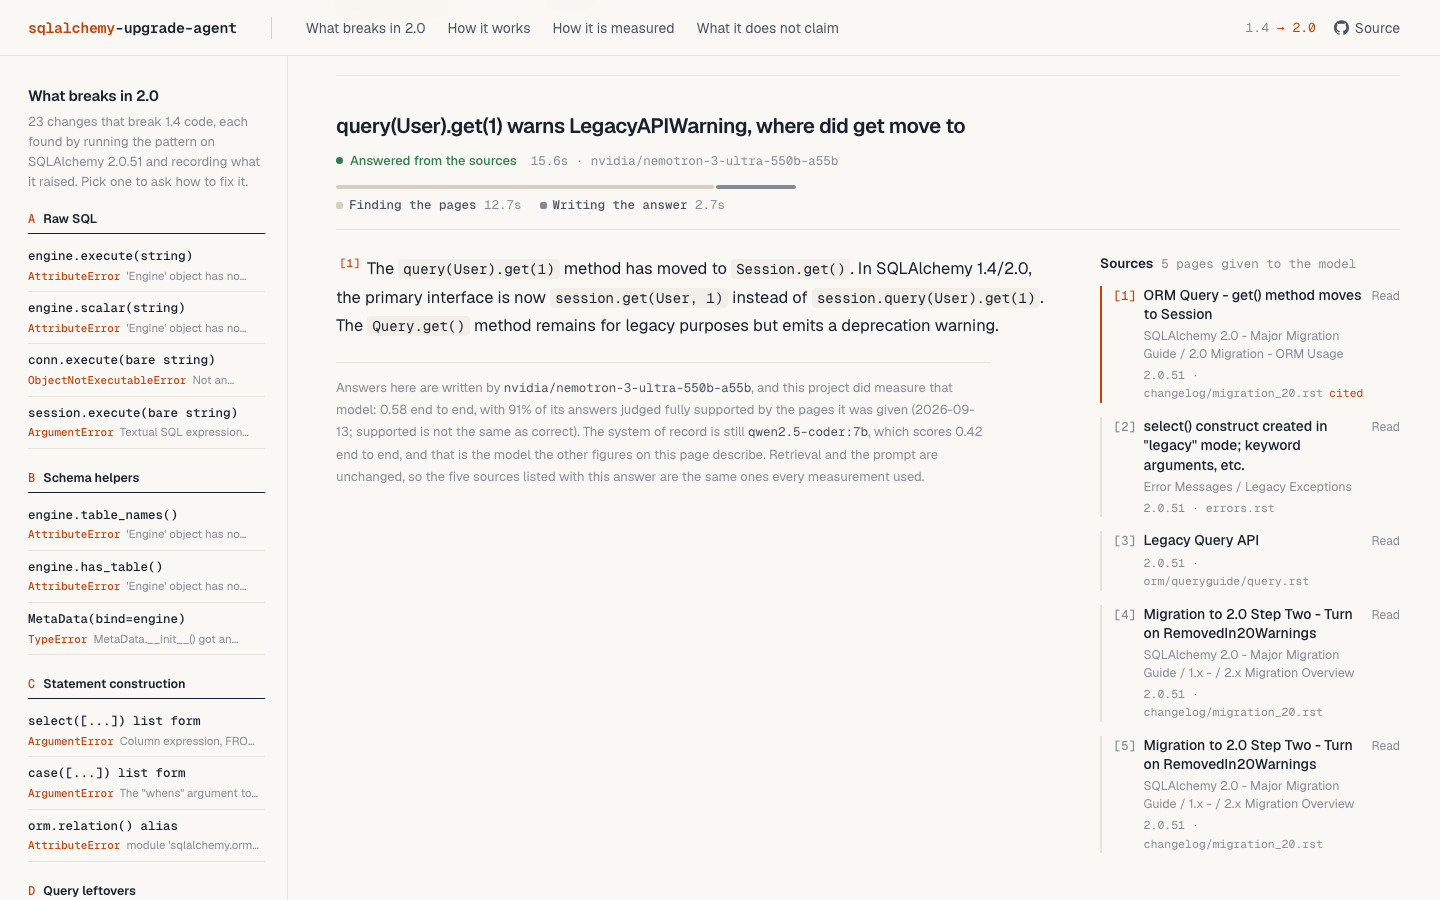
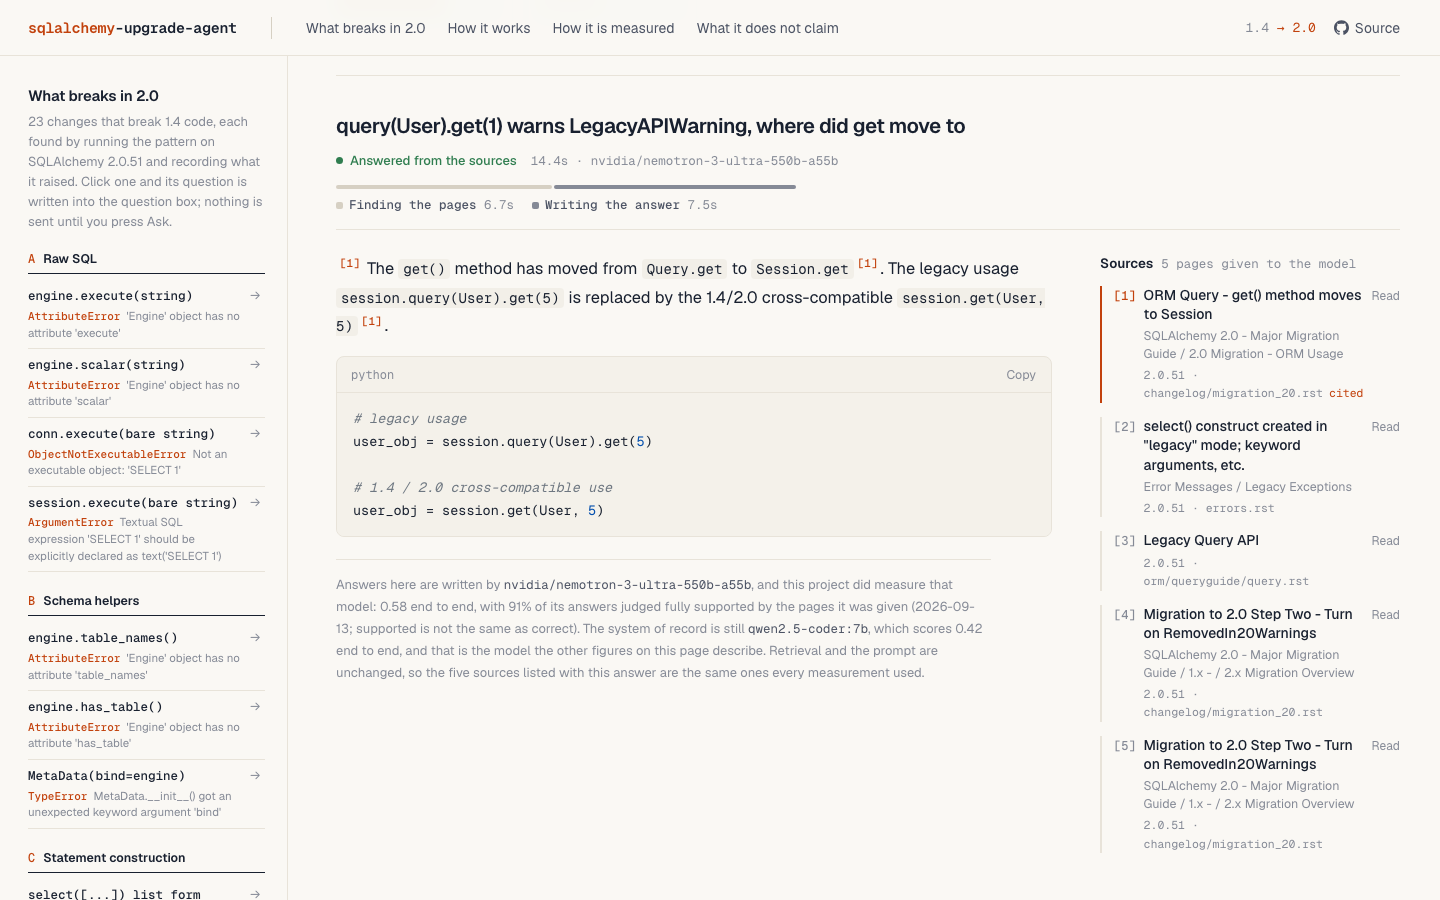
test(page): the live check waits out the 20-second gap; retake the README screenshots
The server takes one question per visitor every 20 seconds. Answers now come
back in about 11 seconds, so the live check's second question was refused as
"Too many questions" and the script read that as an answer with no citations.
It now waits the gap out before each further question, and "Enter produced an
answer" requires an answered or declined reply rather than anything that is
not the working state.

Screenshots retaken from the deployed page: sidebar entries show the whole
error message and an arrow.

diff --git a/tools/check_page_live.py b/tools/check_page_live.py
@@ -24,6 +24,12 @@ import sys
 from playwright.sync_api import sync_playwright
 
 URL = sys.argv[1]
+# The server takes one question per visitor every 20 seconds (`SESSION_MIN_SECONDS` in
+# rag/demo.py), counted from when the last one was SENT. While answers took longer than that the
+# next question was always allowed; at about 11 seconds an answer the second one came back
+# "Too many questions" and this script read that as a page with no citations. So it waits the
+# gap out before each further question.
+GAP_MS = 21_000
 ok = []
 
 
@@ -92,6 +98,7 @@ with sync_playwright() as p:
     check("no sideways scroll after a live answer", not s1["wide"])
 
     print("\nSUGGESTION CHIP")
+    pg.wait_for_timeout(GAP_MS)
     pg.locator(".chip").first.click()
     pg.wait_for_timeout(300)
     check("chip fills the box and submits", state(pg)["disabled"])
@@ -110,12 +117,14 @@ with sync_playwright() as p:
     )
 
     print("\nENTER KEY")
+    pg.wait_for_timeout(GAP_MS)
     pg.fill("#q", "what replaces Query.get in 2.0")
     pg.press("#q", "Enter")
     pg.wait_for_timeout(300)
     check("Enter submits", state(pg)["disabled"])
     pg.wait_for_function("() => !document.getElementById('ask').disabled", timeout=300000)
-    check("Enter produced an answer", "Working" not in state(pg)["pill"])
+    s3 = state(pg)
+    check("Enter produced an answer", "Answered" in s3["pill"] or "Declined" in s3["pill"], f"pill={s3['pill']!r}")
 
     print("\nSHIFT+ENTER")
     pg.fill("#q", "line one")
